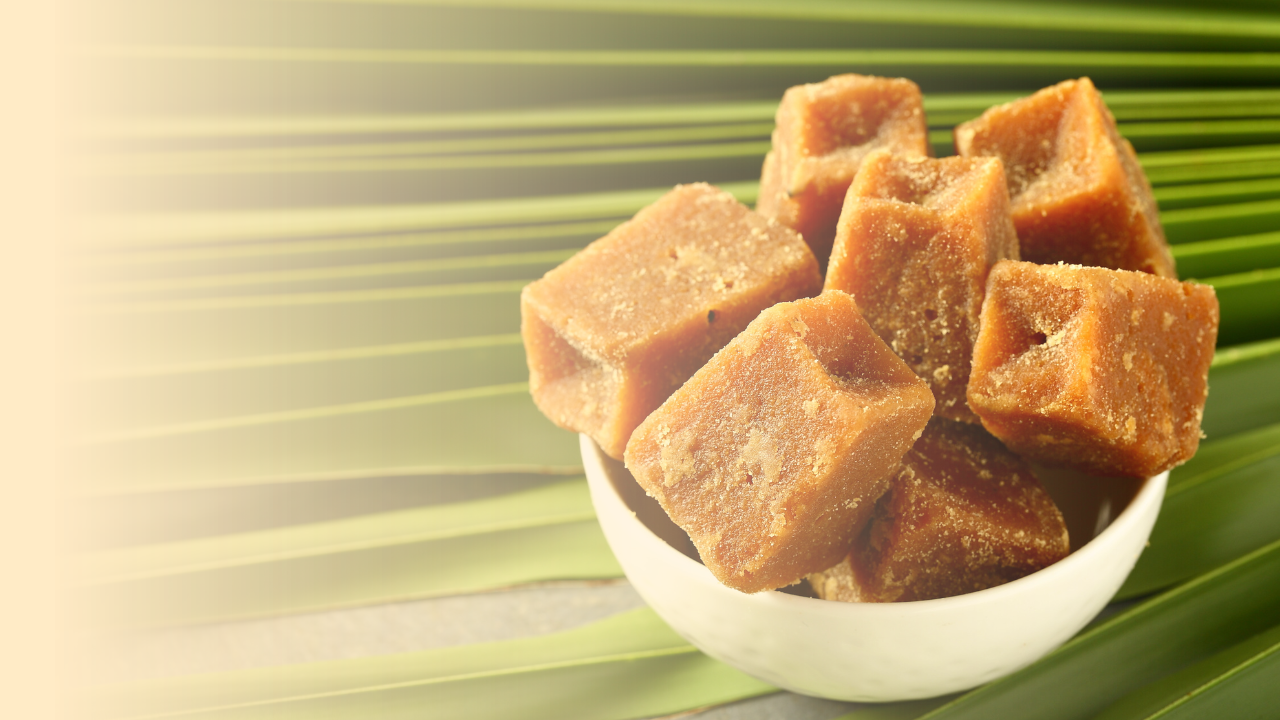
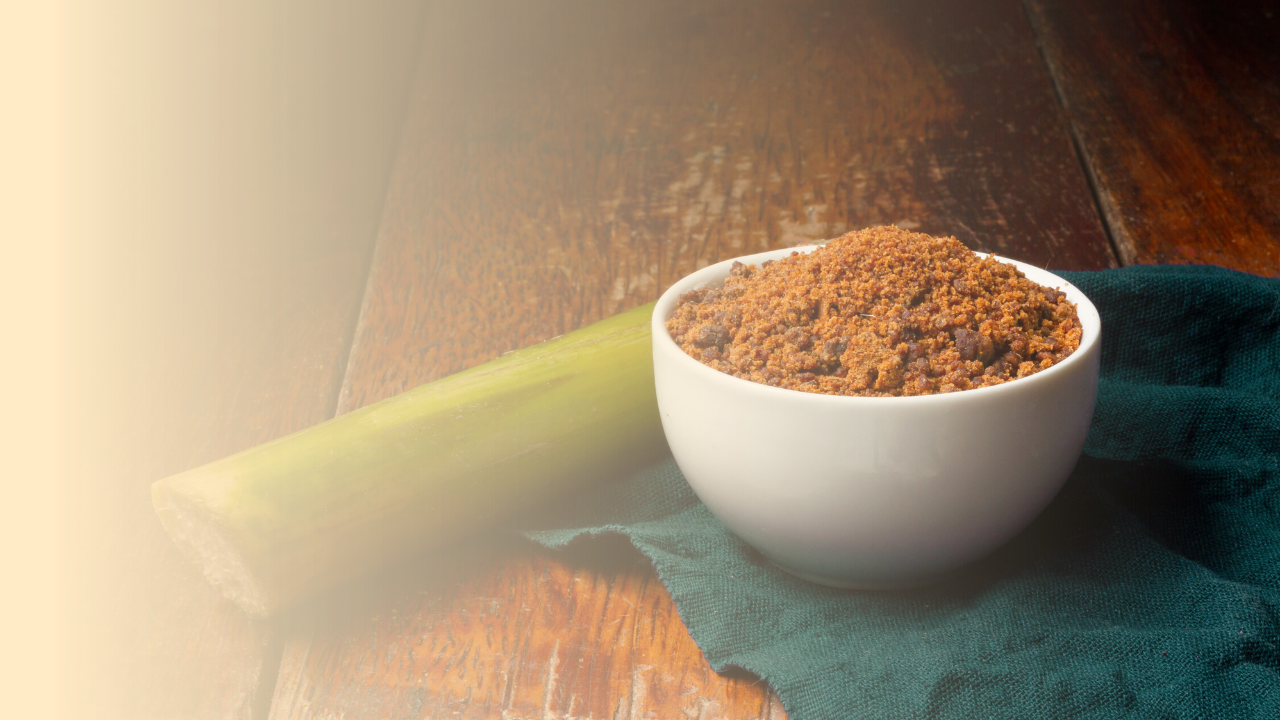
Switched images between vision and mission

diff --git a/my-custom-theme/page-about.php b/my-custom-theme/page-about.php
@@ -139,16 +139,10 @@ $bust = 'anandiitaa_bust';
          maroon wood) with copy in the right half over the dark area. -->
     <section class="about-slide about-slide--mission" data-reveal>
         <div class="about-slide__bg">
-            <picture>
-                <?php // 1366 tier: client-supplied mission bg variant. ?>
-                <source media="(min-width:1281px) and (max-width:1439px)" srcset="<?php echo esc_url( $bust( $tpl . '/images/about-us/d1366/mission-bg.png' ) ); ?>">
-                <?php // 1280 tier: client-supplied mission bg variant. ?>
-                <source media="(min-width:1101px) and (max-width:1280px)" srcset="<?php echo esc_url( $bust( $tpl . '/images/about-us/d1280/mission-bg.png' ) ); ?>">
-                <img
-                    src="<?php echo esc_url( $bust( $tpl . '/images/about-us/mac/about-slide-3.png' ) ); ?>"
-                    alt="Sugarcane stalks and a bowl of sugar on a maroon wooden surface"
-                    loading="lazy">
-            </picture>
+            <img
+                src="<?php echo esc_url( $bust( $tpl . '/images/about-us/mac/about-slide-3.png' ) ); ?>"
+                alt="Sugarcane stalks and a bowl of sugar on a maroon wooden surface"
+                loading="lazy">
         </div>
 
         <div class="about-mission__copy">

diff --git a/graphify-out/GRAPH_REPORT.md b/graphify-out/GRAPH_REPORT.md
@@ -1,7 +1,7 @@
 # Graph Report - .  (2026-05-28)
 
 ## Corpus Check
-- 331 files · ~22,003,148 words
+- 331 files · ~21,904,476 words
 - Verdict: corpus is large enough that graph structure adds value.
 
 ## Summary
